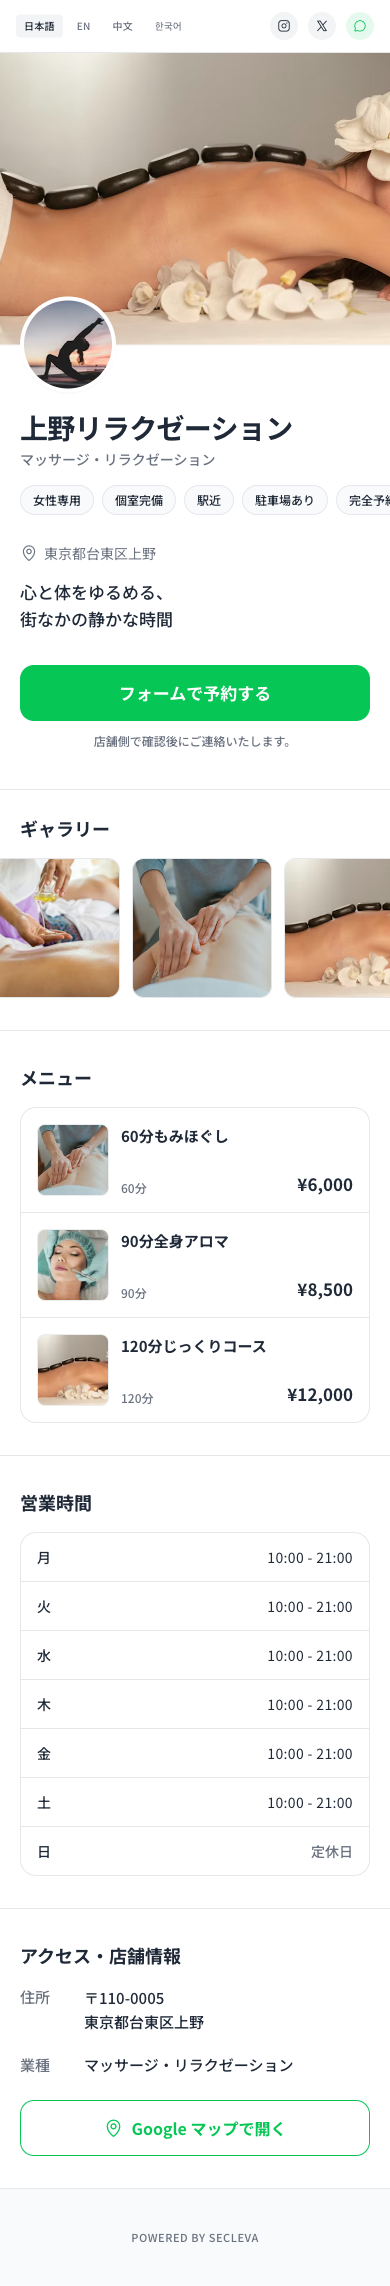
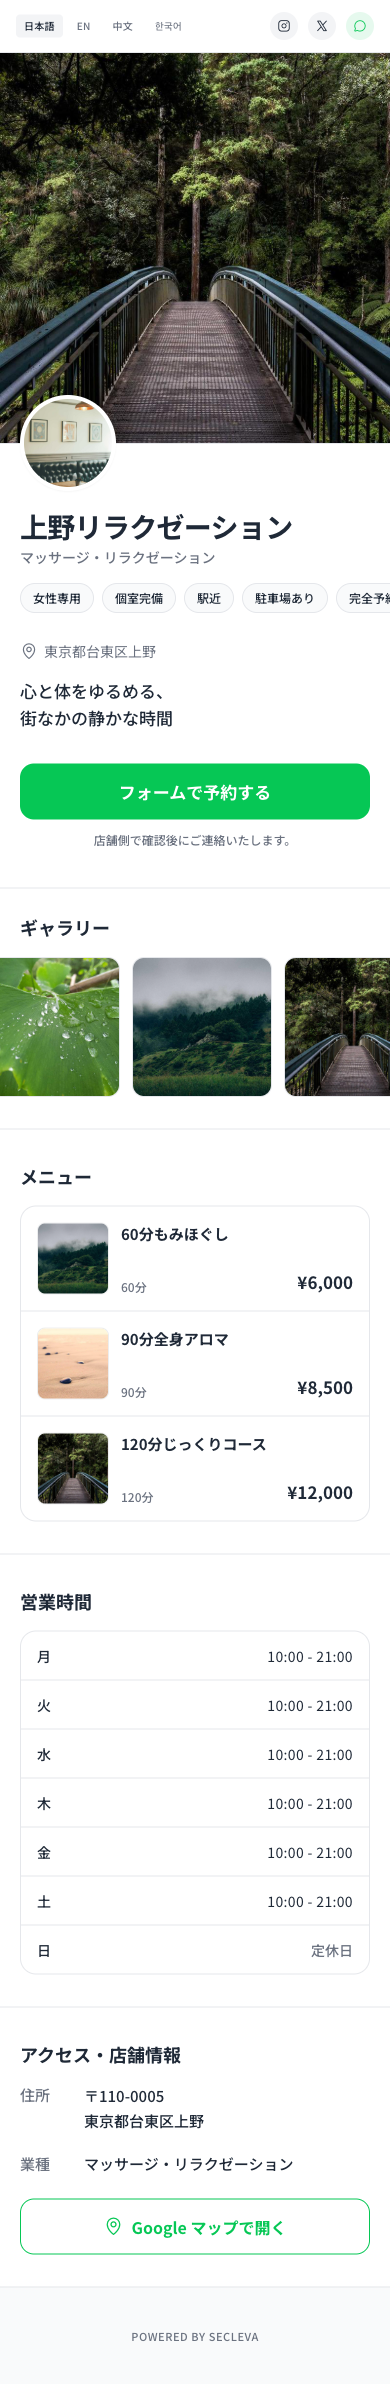
update: 5テンプレ全画像ローカル化 / 多言語4カ国統一 / admin01サムネ構造統一
- T1・T2・T4もローカルダミー画像に置換（branding/dummy/t1・t2・t4）
- T3・T4・T5に中文・韓国語を追加し、95テンプレを4カ国語対応に統一
- admin01 テンプレ選択サムネを「上バー＋ヒーロー＋2列ブロック」の同一構造に伝換し、色だけテンプレ別にバリエーション

diff --git a/shop-page/admin/01_template-select.html b/shop-page/admin/01_template-select.html
@@ -78,12 +78,12 @@
 
                 <!-- Card 1 (T1) Default Selected -->
                 <button class="template-card template-card--selected w-full text-left bg-white border border-zinc-200 rounded-xl p-3 flex flex-row gap-3 items-center touch-active" data-template-id="t1" aria-selected="true">
-                    <div class="template-card__thumb w-[88px] h-[88px] rounded-lg shrink-0 overflow-hidden bg-zinc-50 border border-zinc-100 flex flex-col p-2 gap-1.5">
-                        <div class="w-full h-3 rounded bg-zinc-200"></div>
+                    <div class="template-card__thumb w-[88px] h-[88px] rounded-lg shrink-0 overflow-hidden bg-white border border-zinc-200 flex flex-col p-1.5 gap-1">
+                        <div class="w-full h-2 rounded-sm bg-zinc-200"></div>
                         <div class="w-full h-10 rounded bg-[#E4FCEE]"></div>
                         <div class="flex gap-1">
-                            <div class="w-1/2 h-8 rounded bg-white border border-zinc-100"></div>
-                            <div class="w-1/2 h-8 rounded bg-white border border-zinc-100"></div>
+                            <div class="w-1/2 h-3 rounded-sm bg-zinc-100"></div>
+                            <div class="w-1/2 h-3 rounded-sm bg-zinc-100"></div>
                         </div>
                     </div>
                     <div class="flex-1 flex flex-col justify-center min-w-0 py-0.5">
@@ -102,11 +102,12 @@
 
                 <!-- Card 2 (T2) -->
                 <button class="template-card w-full text-left bg-white border border-zinc-200 rounded-xl p-3 flex flex-row gap-3 items-center touch-active" data-template-id="t2" aria-selected="false">
-                    <div class="template-card__thumb w-[88px] h-[88px] rounded-lg shrink-0 overflow-hidden bg-[#F4F1EA] border border-zinc-200/50 flex flex-col">
-                        <div class="w-full h-6 bg-zinc-800 flex items-center px-1"><div class="w-4 h-0.5 bg-[#C2A878]"></div></div>
-                        <div class="flex-1 p-2 flex flex-col gap-1">
-                            <div class="w-2/3 h-2 bg-zinc-400 rounded-full"></div>
-                            <div class="w-full h-8 bg-white/60 rounded border border-zinc-300/30 mt-1"></div>
+                    <div class="template-card__thumb w-[88px] h-[88px] rounded-lg shrink-0 overflow-hidden bg-[#F4F1EA] border border-zinc-200/50 flex flex-col p-1.5 gap-1">
+                        <div class="w-full h-2 rounded-sm bg-zinc-700"></div>
+                        <div class="w-full h-10 rounded bg-[#E8DFD0]"></div>
+                        <div class="flex gap-1">
+                            <div class="w-1/2 h-3 rounded-sm bg-[#C2A878]/40"></div>
+                            <div class="w-1/2 h-3 rounded-sm bg-[#C2A878]/40"></div>
                         </div>
                     </div>
                     <div class="flex-1 flex flex-col justify-center min-w-0 py-0.5">
@@ -125,10 +126,13 @@
 
                 <!-- Card 3 (T3) -->
                 <button class="template-card w-full text-left bg-white border border-zinc-200 rounded-xl p-3 flex flex-row gap-3 items-center touch-active" data-template-id="t3" aria-selected="false">
-                    <div class="template-card__thumb w-[88px] h-[88px] rounded-lg shrink-0 overflow-hidden bg-[#FAFAF8] border border-zinc-200/60 p-2 flex flex-col items-center justify-center gap-2">
-                        <div class="w-10 h-10 rounded-full bg-[#E8F0E5] border border-[#d6e2d1]"></div>
-                        <div class="w-14 h-2 bg-[#d6e2d1] rounded-full"></div>
-                        <div class="w-10 h-1.5 bg-zinc-200 rounded-full"></div>
+                    <div class="template-card__thumb w-[88px] h-[88px] rounded-lg shrink-0 overflow-hidden bg-[#FAF7F2] border border-zinc-200/60 flex flex-col p-1.5 gap-1">
+                        <div class="w-full h-2 rounded-sm bg-[#6B8E5A]/40"></div>
+                        <div class="w-full h-10 rounded bg-[#E8F0E5]"></div>
+                        <div class="flex gap-1">
+                            <div class="w-1/2 h-3 rounded-sm bg-[#C9A87C]/40"></div>
+                            <div class="w-1/2 h-3 rounded-sm bg-[#C9A87C]/40"></div>
+                        </div>
                     </div>
                     <div class="flex-1 flex flex-col justify-center min-w-0 py-0.5">
                         <span class="text-base font-bold text-zinc-900 truncate tracking-tight">T3 ナチュラル</span>
@@ -146,12 +150,13 @@
 
                 <!-- Card 4 (T4) -->
                 <button class="template-card w-full text-left bg-white border border-zinc-200 rounded-xl p-3 flex flex-row gap-3 items-center touch-active" data-template-id="t4" aria-selected="false">
-                    <div class="template-card__thumb w-[88px] h-[88px] rounded-lg shrink-0 overflow-hidden bg-white border border-zinc-200 p-1.5 flex flex-col items-center gap-1.5">
-                        <div class="w-full h-8 bg-slate-900 flex items-center justify-center">
-                            <div class="w-4 h-4 border border-[#D4AF37] opacity-60 transform rotate-45"></div>
+                    <div class="template-card__thumb w-[88px] h-[88px] rounded-lg shrink-0 overflow-hidden bg-white border border-zinc-200 flex flex-col p-1.5 gap-1">
+                        <div class="w-full h-2 rounded-sm bg-[#1A2A4A]"></div>
+                        <div class="w-full h-10 rounded bg-[#1A2A4A]/10"></div>
+                        <div class="flex gap-1">
+                            <div class="w-1/2 h-3 rounded-sm bg-[#C9A86A]/40"></div>
+                            <div class="w-1/2 h-3 rounded-sm bg-[#C9A86A]/40"></div>
                         </div>
-                        <div class="w-1/2 h-1 bg-[#D4AF37] rounded-sm opacity-80 mt-1"></div>
-                        <div class="w-full h-3 border border-slate-200 bg-slate-50 mt-1"></div>
                     </div>
                     <div class="flex-1 flex flex-col justify-center min-w-0 py-0.5">
                         <span class="text-base font-bold text-zinc-900 truncate tracking-tight">T4 エレガント</span>
@@ -169,13 +174,13 @@
 
                 <!-- Card 5 (T5) -->
                 <button class="template-card w-full text-left bg-white border border-zinc-200 rounded-xl p-3 flex flex-row gap-3 items-center touch-active" data-template-id="t5" aria-selected="false">
-                    <div class="template-card__thumb w-[88px] h-[88px] rounded-lg shrink-0 overflow-hidden bg-zinc-950 flex flex-col p-2 gap-1.5 border border-zinc-800">
-                        <div class="w-full flex justify-between">
-                            <div class="w-6 h-2 bg-[#E0BFB8] rounded-sm"></div>
-                            <div class="w-3 h-2 bg-zinc-800 rounded-sm"></div>
+                    <div class="template-card__thumb w-[88px] h-[88px] rounded-lg shrink-0 overflow-hidden bg-[#0F0F12] border border-zinc-800 flex flex-col p-1.5 gap-1">
+                        <div class="w-full h-2 rounded-sm bg-[#E8B4A0]"></div>
+                        <div class="w-full h-10 rounded bg-zinc-800/80"></div>
+                        <div class="flex gap-1">
+                            <div class="w-1/2 h-3 rounded-sm bg-[#E8B4A0]/40"></div>
+                            <div class="w-1/2 h-3 rounded-sm bg-[#E8B4A0]/40"></div>
                         </div>
-                        <div class="w-full h-10 rounded bg-zinc-800/80 border border-zinc-700/50 mt-1"></div>
-                        <div class="w-1/3 h-1.5 bg-[#E0BFB8]/60 rounded-full mx-auto mt-1"></div>
                     </div>
                     <div class="flex-1 flex flex-col justify-center min-w-0 py-0.5">
                         <span class="text-base font-bold text-zinc-900 truncate tracking-tight">T5 ナイト</span>

diff --git a/shop-page/templates/T4_elegant.html b/shop-page/templates/T4_elegant.html
@@ -39,10 +39,14 @@
 
         <!-- 1. Top Utility Bar -->
         <header class="flex justify-between items-center px-6 py-5 bg-white relative z-10">
-            <div class="flex items-center gap-3 text-[11px] tracking-widest font-serif-en text-navy">
-                <button class="relative pb-[2px] opacity-50">JP</button>
+            <div class="flex items-center gap-2.5 text-[11px] tracking-widest font-serif-en text-navy">
+                <button class="relative pb-[2px]">JP<span class="absolute bottom-0 left-0 w-full h-[1px] bg-gold"></span></button>
                 <span class="w-px h-3 bg-hairline"></span>
-                <button class="relative pb-[2px]">EN<span class="absolute bottom-0 left-0 w-full h-[1px] bg-gold"></span></button>
+                <button class="relative pb-[2px] opacity-50">EN</button>
+                <span class="w-px h-3 bg-hairline"></span>
+                <button class="relative pb-[2px] opacity-50">中文</button>
+                <span class="w-px h-3 bg-hairline"></span>
+                <button class="relative pb-[2px] opacity-50">한국어</button>
             </div>
             <div class="flex items-center gap-4 text-navy">
                 <a href="#"><i class="ph ph-instagram-logo text-lg"></i></a>
@@ -53,7 +57,7 @@
 
         <!-- 2. Main Visual -->
         <section class="relative w-full aspect-[16/11]">
-            <img src="https://images.unsplash.com/photo-1544161515-4ab6ce6db874?auto=format&fit=crop&q=80&w=800" alt="" class="w-full h-full object-cover">
+            <img src="../../branding/dummy/t4/marble2.jpg" alt="" class="w-full h-full object-cover">
             <div class="absolute -bottom-12 left-6 w-24 h-24 bg-white rounded-full border border-gold shadow-hero z-20 flex items-center justify-center p-1">
                 <div class="w-full h-full border-[0.5px] border-gold/30 rounded-full flex items-center justify-center">
                     <span class="font-serif-en text-2xl tracking-tighter text-navy font-medium">M</span>
@@ -102,12 +106,12 @@
                 <div class="flex-grow h-px hairline-gold"></div>
             </div>
             <div class="grid grid-cols-2 gap-3">
-                <div class="aspect-square bg-gray-50 rounded-[4px] hairline-gold overflow-hidden"><img src="https://images.unsplash.com/photo-1540555700478-4be289fbecef?auto=format&fit=crop&q=80&w=400" alt="" class="w-full h-full object-cover"></div>
-                <div class="aspect-square bg-gray-50 rounded-[4px] hairline-gold overflow-hidden"><img src="https://images.unsplash.com/photo-1608248543803-ba4f8c70ae0b?auto=format&fit=crop&q=80&w=400" alt="" class="w-full h-full object-cover"></div>
-                <div class="aspect-square bg-gray-50 rounded-[4px] hairline-gold overflow-hidden"><img src="https://images.unsplash.com/photo-1570172619644-dfd03ed5d881?auto=format&fit=crop&q=80&w=400" alt="" class="w-full h-full object-cover"></div>
-                <div class="aspect-square bg-gray-50 rounded-[4px] hairline-gold overflow-hidden"><img src="https://images.unsplash.com/photo-1600607686527-6fb886090705?auto=format&fit=crop&q=80&w=400" alt="" class="w-full h-full object-cover"></div>
-                <div class="aspect-square bg-gray-50 rounded-[4px] hairline-gold overflow-hidden"><img src="https://images.unsplash.com/photo-1616394584738-fc6e612e71b9?auto=format&fit=crop&q=80&w=400" alt="" class="w-full h-full object-cover"></div>
-                <div class="aspect-square bg-gray-50 rounded-[4px] hairline-gold overflow-hidden"><img src="https://images.unsplash.com/photo-1519415943484-9fa1873496d4?auto=format&fit=crop&q=80&w=400" alt="" class="w-full h-full object-cover"></div>
+                <div class="aspect-square bg-gray-50 rounded-[4px] hairline-gold overflow-hidden"><img src="../../branding/dummy/t4/luxe2.jpg" alt="" class="w-full h-full object-cover"></div>
+                <div class="aspect-square bg-gray-50 rounded-[4px] hairline-gold overflow-hidden"><img src="../../branding/dummy/t4/candle2.jpg" alt="" class="w-full h-full object-cover"></div>
+                <div class="aspect-square bg-gray-50 rounded-[4px] hairline-gold overflow-hidden"><img src="../../branding/dummy/t4/spa2.jpg" alt="" class="w-full h-full object-cover"></div>
+                <div class="aspect-square bg-gray-50 rounded-[4px] hairline-gold overflow-hidden"><img src="../../branding/dummy/t4/candle1.jpg" alt="" class="w-full h-full object-cover"></div>
+                <div class="aspect-square bg-gray-50 rounded-[4px] hairline-gold overflow-hidden"><img src="../../branding/dummy/t4/silk2.jpg" alt="" class="w-full h-full object-cover"></div>
+                <div class="aspect-square bg-gray-50 rounded-[4px] hairline-gold overflow-hidden"><img src="../../branding/dummy/t4/luxe1.jpg" alt="" class="w-full h-full object-cover"></div>
             </div>
         </section>
 
@@ -119,7 +123,7 @@
             </div>
             <div class="flex flex-col">
                 <div class="flex items-center py-5 border-b hairline-gold">
-                    <img src="https://images.unsplash.com/photo-1615397347101-b74e6451a37c?auto=format&fit=crop&q=80&w=200" alt="" class="w-16 h-16 rounded-[4px] object-cover hairline-gold shrink-0">
+                    <img src="../../branding/dummy/t4/silk1.jpg" alt="" class="w-16 h-16 rounded-[4px] object-cover hairline-gold shrink-0">
                     <div class="ml-4 flex-grow"><h5 class="font-serif-jp text-[15px] text-navy tracking-widest pl-1">シグネチャーフェイシャル</h5></div>
                     <div class="text-right shrink-0">
                         <span class="block text-[11px] text-text-sec tracking-widest mb-1">90分</span>
@@ -127,7 +131,7 @@
                     </div>
                 </div>
                 <div class="flex items-center py-5 border-b hairline-gold">
-                    <img src="https://images.unsplash.com/photo-1542840410-3092f99611a3?auto=format&fit=crop&q=80&w=200" alt="" class="w-16 h-16 rounded-[4px] object-cover hairline-gold shrink-0">
+                    <img src="../../branding/dummy/t4/marble1.jpg" alt="" class="w-16 h-16 rounded-[4px] object-cover hairline-gold shrink-0">
                     <div class="ml-4 flex-grow"><h5 class="font-serif-jp text-[15px] text-navy tracking-widest pl-1">ボディトリートメント</h5></div>
                     <div class="text-right shrink-0">
                         <span class="block text-[11px] text-text-sec tracking-widest mb-1">120分</span>
@@ -135,7 +139,7 @@
                     </div>
                 </div>
                 <div class="flex items-center py-5">
-                    <img src="https://images.unsplash.com/photo-1552693673-1bf9582989ac?auto=format&fit=crop&q=80&w=200" alt="" class="w-16 h-16 rounded-[4px] object-cover hairline-gold shrink-0">
+                    <img src="../../branding/dummy/t4/spa1.jpg" alt="" class="w-16 h-16 rounded-[4px] object-cover hairline-gold shrink-0">
                     <div class="ml-4 flex-grow"><h5 class="font-serif-jp text-[15px] text-navy tracking-widest pl-1">VIPフルコース</h5></div>
                     <div class="text-right shrink-0">
                         <span class="block text-[11px] text-text-sec tracking-widest mb-1">180分</span>

diff --git a/shop-page/templates/T1_clean.html b/shop-page/templates/T1_clean.html
@@ -72,9 +72,9 @@
 
         <!-- 2. Main Visual & Logo -->
         <section class="relative w-full aspect-[4/3] bg-gray-50 border-b border-secborder">
-            <img src="https://images.unsplash.com/photo-1600334089648-b0d9d3028eb2?auto=format&fit=crop&w=800&q=80" alt="トリートメントルーム" class="w-full h-full object-cover">
+            <img src="../../branding/dummy/t1/white1.jpg" alt="トリートメントルーム" class="w-full h-full object-cover">
             <div class="absolute -bottom-12 left-5 w-24 h-24 rounded-full border-4 border-secbg bg-white shadow-sm overflow-hidden z-10">
-                <img src="https://images.unsplash.com/photo-1544367567-0f2fcb009e0b?auto=format&fit=crop&w=200&q=80" alt="サロンロゴ" class="w-full h-full object-cover">
+                <img src="../../branding/dummy/t1/relax2.jpg" alt="サロンロゴ" class="w-full h-full object-cover">
             </div>
         </section>
 
@@ -112,12 +112,12 @@
         <section class="py-6 border-t border-secborder bg-secbg">
             <div class="px-5 mb-4 font-bold text-lg text-sectext">ギャラリー</div>
             <div class="flex overflow-x-auto no-scrollbar gap-3 -mx-5 px-5 pb-2 snap-x snap-mandatory">
-                <img src="https://images.unsplash.com/photo-1544161515-4ab6ce6db874?auto=format&fit=crop&w=300&q=80" alt="" class="w-[140px] h-[140px] shrink-0 rounded-xl object-cover border border-secborder snap-start">
-                <img src="https://images.unsplash.com/photo-1519823551278-64ac92734fb1?auto=format&fit=crop&w=300&q=80" alt="" class="w-[140px] h-[140px] shrink-0 rounded-xl object-cover border border-secborder snap-start">
-                <img src="https://images.unsplash.com/photo-1600334089648-b0d9d3028eb2?auto=format&fit=crop&w=300&q=80" alt="" class="w-[140px] h-[140px] shrink-0 rounded-xl object-cover border border-secborder snap-start">
-                <img src="https://images.unsplash.com/photo-1552693673-1bf958298935?auto=format&fit=crop&w=300&q=80" alt="" class="w-[140px] h-[140px] shrink-0 rounded-xl object-cover border border-secborder snap-start">
-                <img src="https://images.unsplash.com/photo-1583416750470-965b2707b355?auto=format&fit=crop&w=300&q=80" alt="" class="w-[140px] h-[140px] shrink-0 rounded-xl object-cover border border-secborder snap-start">
-                <img src="https://images.unsplash.com/photo-1498837167922-41c543bd1df0?auto=format&fit=crop&w=300&q=80" alt="" class="w-[140px] h-[140px] shrink-0 rounded-xl object-cover border border-secborder snap-start">
+                <img src="../../branding/dummy/t1/relax1.jpg" alt="" class="w-[140px] h-[140px] shrink-0 rounded-xl object-cover border border-secborder snap-start">
+                <img src="../../branding/dummy/t1/clean2.jpg" alt="" class="w-[140px] h-[140px] shrink-0 rounded-xl object-cover border border-secborder snap-start">
+                <img src="../../branding/dummy/t1/white1.jpg" alt="" class="w-[140px] h-[140px] shrink-0 rounded-xl object-cover border border-secborder snap-start">
+                <img src="../../branding/dummy/t1/light1.jpg" alt="" class="w-[140px] h-[140px] shrink-0 rounded-xl object-cover border border-secborder snap-start">
+                <img src="../../branding/dummy/t1/light2.jpg" alt="" class="w-[140px] h-[140px] shrink-0 rounded-xl object-cover border border-secborder snap-start">
+                <img src="../../branding/dummy/t1/clean1.jpg" alt="" class="w-[140px] h-[140px] shrink-0 rounded-xl object-cover border border-secborder snap-start">
             </div>
         </section>
 
@@ -126,7 +126,7 @@
             <h2 class="font-bold text-lg text-sectext mb-4">メニュー</h2>
             <div class="border border-secborder rounded-2xl bg-white overflow-hidden flex flex-col">
                 <div class="flex gap-3 p-4 border-b border-secborder">
-                    <img src="https://images.unsplash.com/photo-1519823551278-64ac92734fb1?auto=format&fit=crop&w=150&q=80" alt="" class="w-[72px] h-[72px] rounded-lg object-cover shrink-0 bg-gray-50 border border-black/5">
+                    <img src="../../branding/dummy/t1/clean2.jpg" alt="" class="w-[72px] h-[72px] rounded-lg object-cover shrink-0 bg-gray-50 border border-black/5">
                     <div class="flex flex-col justify-between flex-grow pt-0.5">
                         <div class="text-[15px] font-bold text-sectext leading-tight">60分もみほぐし</div>
                         <div class="flex items-end justify-between w-full mt-1">
@@ -136,7 +136,7 @@
                     </div>
                 </div>
                 <div class="flex gap-3 p-4 border-b border-secborder">
-                    <img src="https://images.unsplash.com/photo-1552693673-1bf958298935?auto=format&fit=crop&w=150&q=80" alt="" class="w-[72px] h-[72px] rounded-lg object-cover shrink-0 bg-gray-50 border border-black/5">
+                    <img src="../../branding/dummy/t1/light1.jpg" alt="" class="w-[72px] h-[72px] rounded-lg object-cover shrink-0 bg-gray-50 border border-black/5">
                     <div class="flex flex-col justify-between flex-grow pt-0.5">
                         <div class="text-[15px] font-bold text-sectext leading-tight">90分全身アロマ</div>
                         <div class="flex items-end justify-between w-full mt-1">
@@ -146,7 +146,7 @@
                     </div>
                 </div>
                 <div class="flex gap-3 p-4">
-                    <img src="https://images.unsplash.com/photo-1600334089648-b0d9d3028eb2?auto=format&fit=crop&w=150&q=80" alt="" class="w-[72px] h-[72px] rounded-lg object-cover shrink-0 bg-gray-50 border border-black/5">
+                    <img src="../../branding/dummy/t1/white1.jpg" alt="" class="w-[72px] h-[72px] rounded-lg object-cover shrink-0 bg-gray-50 border border-black/5">
                     <div class="flex flex-col justify-between flex-grow pt-0.5">
                         <div class="text-[15px] font-bold text-sectext leading-tight">120分じっくりコース</div>
                         <div class="flex items-end justify-between w-full mt-1">

diff --git a/shop-page/templates/T2_wamodern.html b/shop-page/templates/T2_wamodern.html
@@ -58,7 +58,7 @@
 
         <!-- 2. Main Visual -->
         <header class="relative w-full aspect-[4/3] bg-paper/20">
-            <img src="https://images.unsplash.com/photo-1600573472591-ee6bfc6cb3ca?auto=format&fit=crop&w=800&q=80" alt="治療院の入り口" class="w-full h-full object-cover">
+            <img src="../../branding/dummy/t2/wood1.jpg" alt="治療院の入り口" class="w-full h-full object-cover">
             <div class="absolute -bottom-12 left-5 w-24 h-24 rounded-full border-[4px] border-paper bg-kinari flex items-center justify-center z-10">
                 <span class="font-serif text-3xl text-sumi tracking-widest ml-1">結</span>
             </div>
@@ -109,12 +109,12 @@
                 <span class="w-1.5 h-1.5 bg-paper rounded-full"></span> 空間と施術
             </h3>
             <div class="flex overflow-x-auto gap-3 px-5 pb-2">
-                <img src="https://images.unsplash.com/photo-1544367567-0f2fcb009e0b?auto=format&fit=crop&w=400&h=400&q=80" alt="" class="w-[140px] h-[140px] rounded-[8px] object-cover flex-shrink-0">
-                <img src="https://images.unsplash.com/photo-1519823551278-64ac92734fb1?auto=format&fit=crop&w=400&h=400&q=80" alt="" class="w-[140px] h-[140px] rounded-[8px] object-cover flex-shrink-0">
-                <img src="https://images.unsplash.com/photo-1611680197779-7f975417ecbb?auto=format&fit=crop&w=400&h=400&q=80" alt="" class="w-[140px] h-[140px] rounded-[8px] object-cover flex-shrink-0">
-                <img src="https://images.unsplash.com/photo-1570129477492-45c003edd2be?auto=format&fit=crop&w=400&h=400&q=80" alt="" class="w-[140px] h-[140px] rounded-[8px] object-cover flex-shrink-0">
-                <img src="https://images.unsplash.com/photo-1629853381665-27a92b23a9d7?auto=format&fit=crop&w=400&h=400&q=80" alt="" class="w-[140px] h-[140px] rounded-[8px] object-cover flex-shrink-0">
-                <img src="https://images.unsplash.com/photo-1508672019048-805c876b67e2?auto=format&fit=crop&w=400&h=400&q=80" alt="" class="w-[140px] h-[140px] rounded-[8px] object-cover flex-shrink-0">
+                <img src="../../branding/dummy/t2/tea1.jpg" alt="" class="w-[140px] h-[140px] rounded-[8px] object-cover flex-shrink-0">
+                <img src="../../branding/dummy/t2/wabi2.jpg" alt="" class="w-[140px] h-[140px] rounded-[8px] object-cover flex-shrink-0">
+                <img src="../../branding/dummy/t2/stone1.jpg" alt="" class="w-[140px] h-[140px] rounded-[8px] object-cover flex-shrink-0">
+                <img src="../../branding/dummy/t2/tea2.jpg" alt="" class="w-[140px] h-[140px] rounded-[8px] object-cover flex-shrink-0">
+                <img src="../../branding/dummy/t2/stone2.jpg" alt="" class="w-[140px] h-[140px] rounded-[8px] object-cover flex-shrink-0">
+                <img src="../../branding/dummy/t2/zen1.jpg" alt="" class="w-[140px] h-[140px] rounded-[8px] object-cover flex-shrink-0">
             </div>
         </section>
 
@@ -125,7 +125,7 @@
             <h3 class="font-serif text-[18px] text-sumi mb-8 tracking-widest text-center">施術内容</h3>
             <div class="flex flex-col gap-6">
                 <div class="flex items-center gap-4 relative">
-                    <img src="https://images.unsplash.com/photo-1512290923902-8a9f81dc236c?auto=format&fit=crop&w=200&h=200&q=80" alt="" class="w-[72px] h-[72px] rounded border border-paper/50 object-cover flex-shrink-0">
+                    <img src="../../branding/dummy/t2/zen2.jpg" alt="" class="w-[72px] h-[72px] rounded border border-paper/50 object-cover flex-shrink-0">
                     <div class="flex-1 flex flex-col justify-center">
                         <h4 class="text-[16px] font-sans font-medium text-sumi tracking-wide">全身整体</h4>
                         <p class="text-[12px] text-textsec mt-1 font-sans">60分</p>
@@ -134,7 +134,7 @@
                     <div class="min-w-[70px] text-right"><span class="text-[16px] font-medium font-sans text-sumi tracking-wider">¥6,000</span></div>
                 </div>
                 <div class="flex items-center gap-4 relative pt-6 border-t border-paper/30">
-                    <img src="https://images.unsplash.com/photo-1606902965551-dce093cda6e7?auto=format&fit=crop&w=200&h=200&q=80" alt="" class="w-[72px] h-[72px] rounded border border-paper/50 object-cover flex-shrink-0">
+                    <img src="../../branding/dummy/t2/wood2.jpg" alt="" class="w-[72px] h-[72px] rounded border border-paper/50 object-cover flex-shrink-0">
                     <div class="flex-1 flex flex-col justify-center">
                         <h4 class="text-[16px] font-sans font-medium text-sumi tracking-wide">骨盤矯正</h4>
                         <p class="text-[12px] text-textsec mt-1 font-sans">45分</p>
@@ -143,7 +143,7 @@
                     <div class="min-w-[70px] text-right"><span class="text-[16px] font-medium font-sans text-sumi tracking-wider">¥5,500</span></div>
                 </div>
                 <div class="flex items-center gap-4 relative pt-6 border-t border-paper/30">
-                    <img src="https://images.unsplash.com/photo-1515377905703-c4788e51af15?auto=format&fit=crop&w=200&h=200&q=80" alt="" class="w-[72px] h-[72px] rounded border border-paper/50 object-cover flex-shrink-0">
+                    <img src="../../branding/dummy/t2/wabi1.jpg" alt="" class="w-[72px] h-[72px] rounded border border-paper/50 object-cover flex-shrink-0">
                     <div class="flex-1 flex flex-col justify-center">
                         <h4 class="text-[16px] font-sans font-medium text-sumi tracking-wide">鍼灸コース</h4>
                         <p class="text-[12px] text-textsec mt-1 font-sans">90分</p>

diff --git a/shop-page/templates/T3_natural.html b/shop-page/templates/T3_natural.html
@@ -40,9 +40,11 @@
 
         <!-- 1. Top Utility Bar -->
         <header class="w-full px-4 py-3 flex justify-between items-center sticky top-0 z-50 bg-custom-bg/95 backdrop-blur-md">
-            <div class="flex text-xs font-lora font-medium items-center p-1 bg-white rounded-full border border-custom-divider shadow-sm">
-                <button class="px-3 py-1.5 rounded-full border border-custom-accent text-custom-accent bg-custom-accent/5">JP</button>
-                <button class="px-3 py-1.5 rounded-full text-custom-textmuted">EN</button>
+            <div class="flex text-[11px] font-lora font-medium items-center p-1 bg-white rounded-full border border-custom-divider shadow-sm">
+                <button class="px-2.5 py-1.5 rounded-full border border-custom-accent text-custom-accent bg-custom-accent/5">JP</button>
+                <button class="px-2.5 py-1.5 rounded-full text-custom-textmuted">EN</button>
+                <button class="px-2.5 py-1.5 rounded-full text-custom-textmuted">中文</button>
+                <button class="px-2.5 py-1.5 rounded-full text-custom-textmuted">한국어</button>
             </div>
             <div class="flex gap-2">
                 <a href="#" class="w-9 h-9 flex justify-center items-center rounded-xl border border-custom-divider bg-white text-custom-textmuted"><i class="ph ph-instagram-logo text-lg"></i></a>

diff --git a/shop-page/templates/T5_night.html b/shop-page/templates/T5_night.html
@@ -44,10 +44,14 @@
 
         <!-- 1. Top Utility Bar -->
         <header class="relative z-20 w-full px-5 py-3 flex justify-between items-center bg-obsidian/80 backdrop-blur-md border-b divider sticky top-0">
-            <div class="flex gap-3 text-xs font-medium tracking-widest text-pinkgold/60">
+            <div class="flex gap-2 text-[11px] font-medium tracking-widest text-pinkgold/60">
                 <button class="text-pinkgold underline underline-offset-4 decoration-[1px]">JP</button>
                 <span>/</span>
                 <button>EN</button>
+                <span>/</span>
+                <button>中文</button>
+                <span>/</span>
+                <button>한국어</button>
             </div>
             <div class="flex gap-4 items-center text-pinkgold">
                 <a href="#"><i class="ph ph-instagram-logo text-xl"></i></a>
